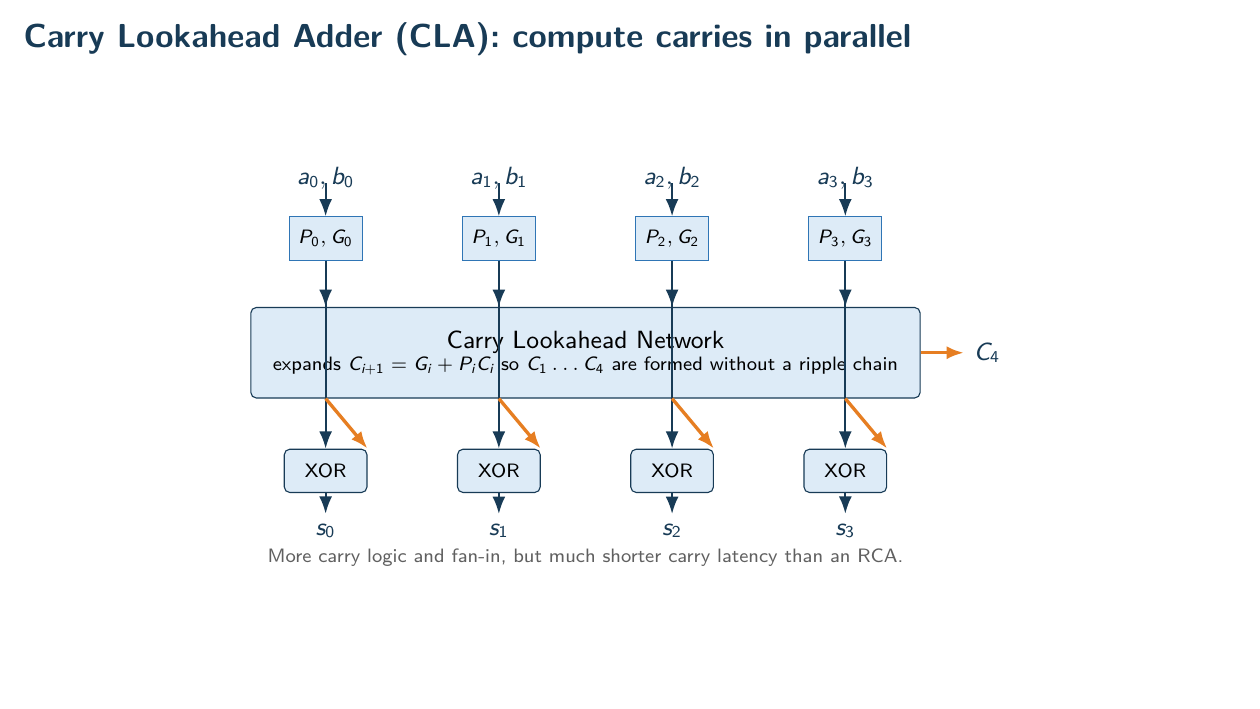
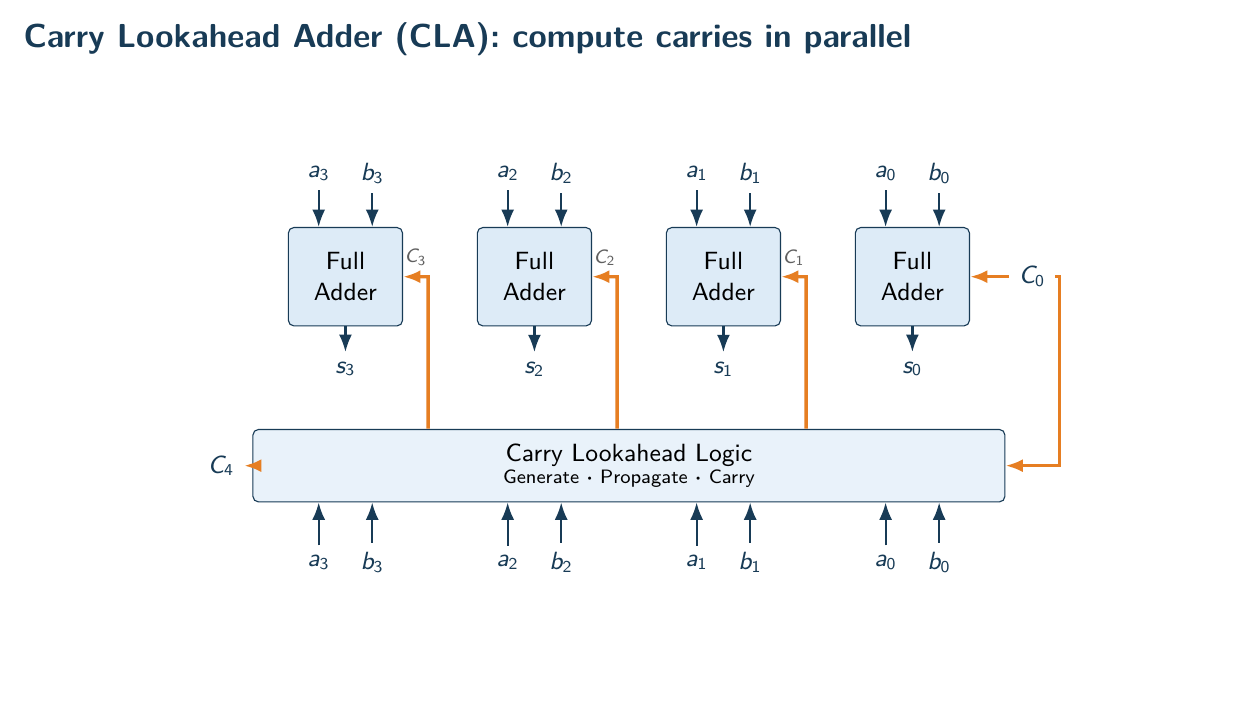
redraw carry lookahead architecture diagram

diff --git a/docs/diagrams/adder_architectures.tex b/docs/diagrams/adder_architectures.tex
@@ -62,24 +62,43 @@
 \begin{frame}{Carry Lookahead Adder (CLA): compute carries in parallel}
 \centering
 \begin{tikzpicture}[x=1cm,y=1cm]
-  \foreach \i/\x in {0/-3.3,1/-1.1,2/1.1,3/3.3}{
-    \node[pg] (pg\i) at (\x,1.5) {$P_{\i},G_{\i}$};
-    \node[label] at ($(pg\i.north)+(0,.48)$) {$a_{\i},b_{\i}$};
-    \draw[data] ($(pg\i.north)+(0,.42)$) -- (pg\i.north);
+  \foreach \i/\x in {3/-3.6,2/-1.2,1/1.2,0/3.6}{
+    \node[block,minimum width=1.45cm,minimum height=1.25cm] (fa\i) at (\x,.85)
+      {Full\\Adder};
+    \node[label] (a\i) at ($(fa\i.north)+(-.34,.68)$) {$a_{\i}$};
+    \node[label] (b\i) at ($(fa\i.north)+(.34,.68)$) {$b_{\i}$};
+    \draw[data] (a\i) -- ($(fa\i.north)+(-.34,0)$);
+    \draw[data] (b\i) -- ($(fa\i.north)+(.34,0)$);
+    \node[label] (s\i) at ($(fa\i.south)+(0,-.54)$) {$s_{\i}$};
+    \draw[data] (fa\i.south) -- (s\i);
   }
-  \node[block,minimum width=8.5cm,minimum height=1.15cm] (look) at (0,.05)
-    {Carry Lookahead Network\\[-1mm]\scriptsize expands $C_{i+1}=G_i+P_iC_i$ so $C_1\ldots C_4$ are formed without a ripple chain};
-  \foreach \i in {0,1,2,3}{\draw[data] (pg\i.south) -- (look.north -| pg\i);}
-  \foreach \i/\x in {0/-3.3,1/-1.1,2/1.1,3/3.3}{
-    \node[smallblock] (xor\i) at (\x,-1.45) {XOR};
-    \draw[data] (pg\i.south) -- ++(0,-.35) -| (xor\i.north);
-    \draw[carry] (look.south -| xor\i) -- (xor\i.north east);
-    \node[label] (sum\i) at ($(xor\i.south)+(0,-.48)$) {$s_{\i}$};
-    \draw[data] (xor\i.south) -- (sum\i);
+
+  \node[block,fill=BlueLight!65,minimum width=9.55cm,minimum height=.92cm] (look) at (0,-1.55)
+    {Carry Lookahead Logic\\[-1mm]\scriptsize Generate $\boldsymbol{\cdot}$ Propagate $\boldsymbol{\cdot}$ Carry};
+
+  % The lookahead network supplies C1--C3 directly to the corresponding
+  % full-adder stages instead of passing them through a ripple chain.
+  \coordinate (c3tap) at (-2.55,-1.08);
+  \coordinate (c2tap) at (-.15,-1.08);
+  \coordinate (c1tap) at (2.25,-1.08);
+  \draw[carry] (c3tap) -- ++(0,1.93) -- node[above,note] {$C_3$} (fa3.east);
+  \draw[carry] (c2tap) -- ++(0,1.93) -- node[above,note] {$C_2$} (fa2.east);
+  \draw[carry] (c1tap) -- ++(0,1.93) -- node[above,note] {$C_1$} (fa1.east);
+
+  \node[label] (cin) at (5.12,.85) {$C_0$};
+  \draw[carry] (cin) -- (fa0.east);
+  \draw[carry] (cin) -- ++(.35,0) |- (look.east);
+  \node[label] (cout) at (-5.18,-1.55) {$C_4$};
+  \draw[carry] (look.west) -- (cout);
+
+  % Operand bits also feed the generate/propagate logic, as in the reference
+  % block diagram. They are repeated below to keep the signal flow legible.
+  \foreach \i/\x in {3/-3.6,2/-1.2,1/1.2,0/3.6}{
+    \node[label] (al\i) at (\x-.34,-2.78) {$a_{\i}$};
+    \node[label] (bl\i) at (\x+.34,-2.78) {$b_{\i}$};
+    \draw[data] (al\i) -- (look.south -| al\i);
+    \draw[data] (bl\i) -- (look.south -| bl\i);
   }
-  \node[label] (cout) at (5.1,.05) {$C_4$};
-  \draw[carry] (look.east) -- (cout);
-  \node[note] at (0,-2.55) {More carry logic and fan-in, but much shorter carry latency than an RCA.};
 \end{tikzpicture}
 \end{frame}
 
